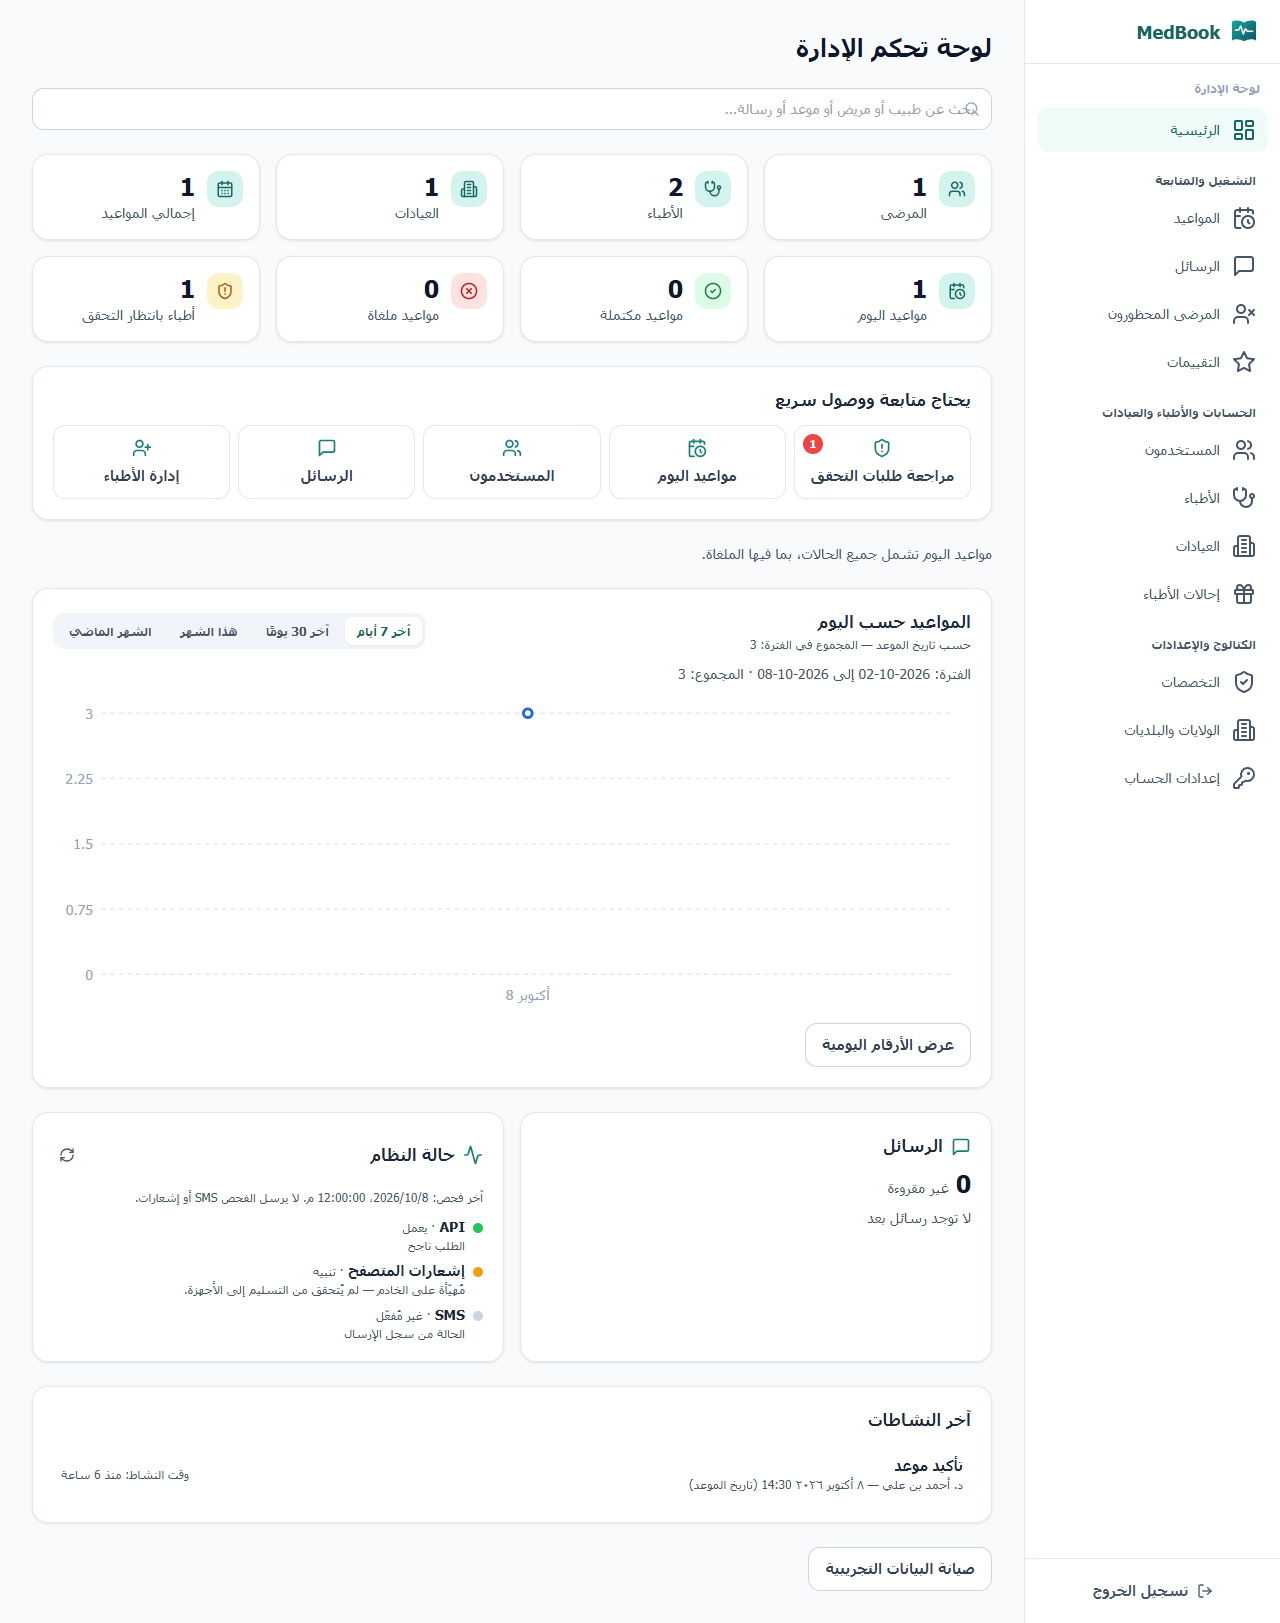
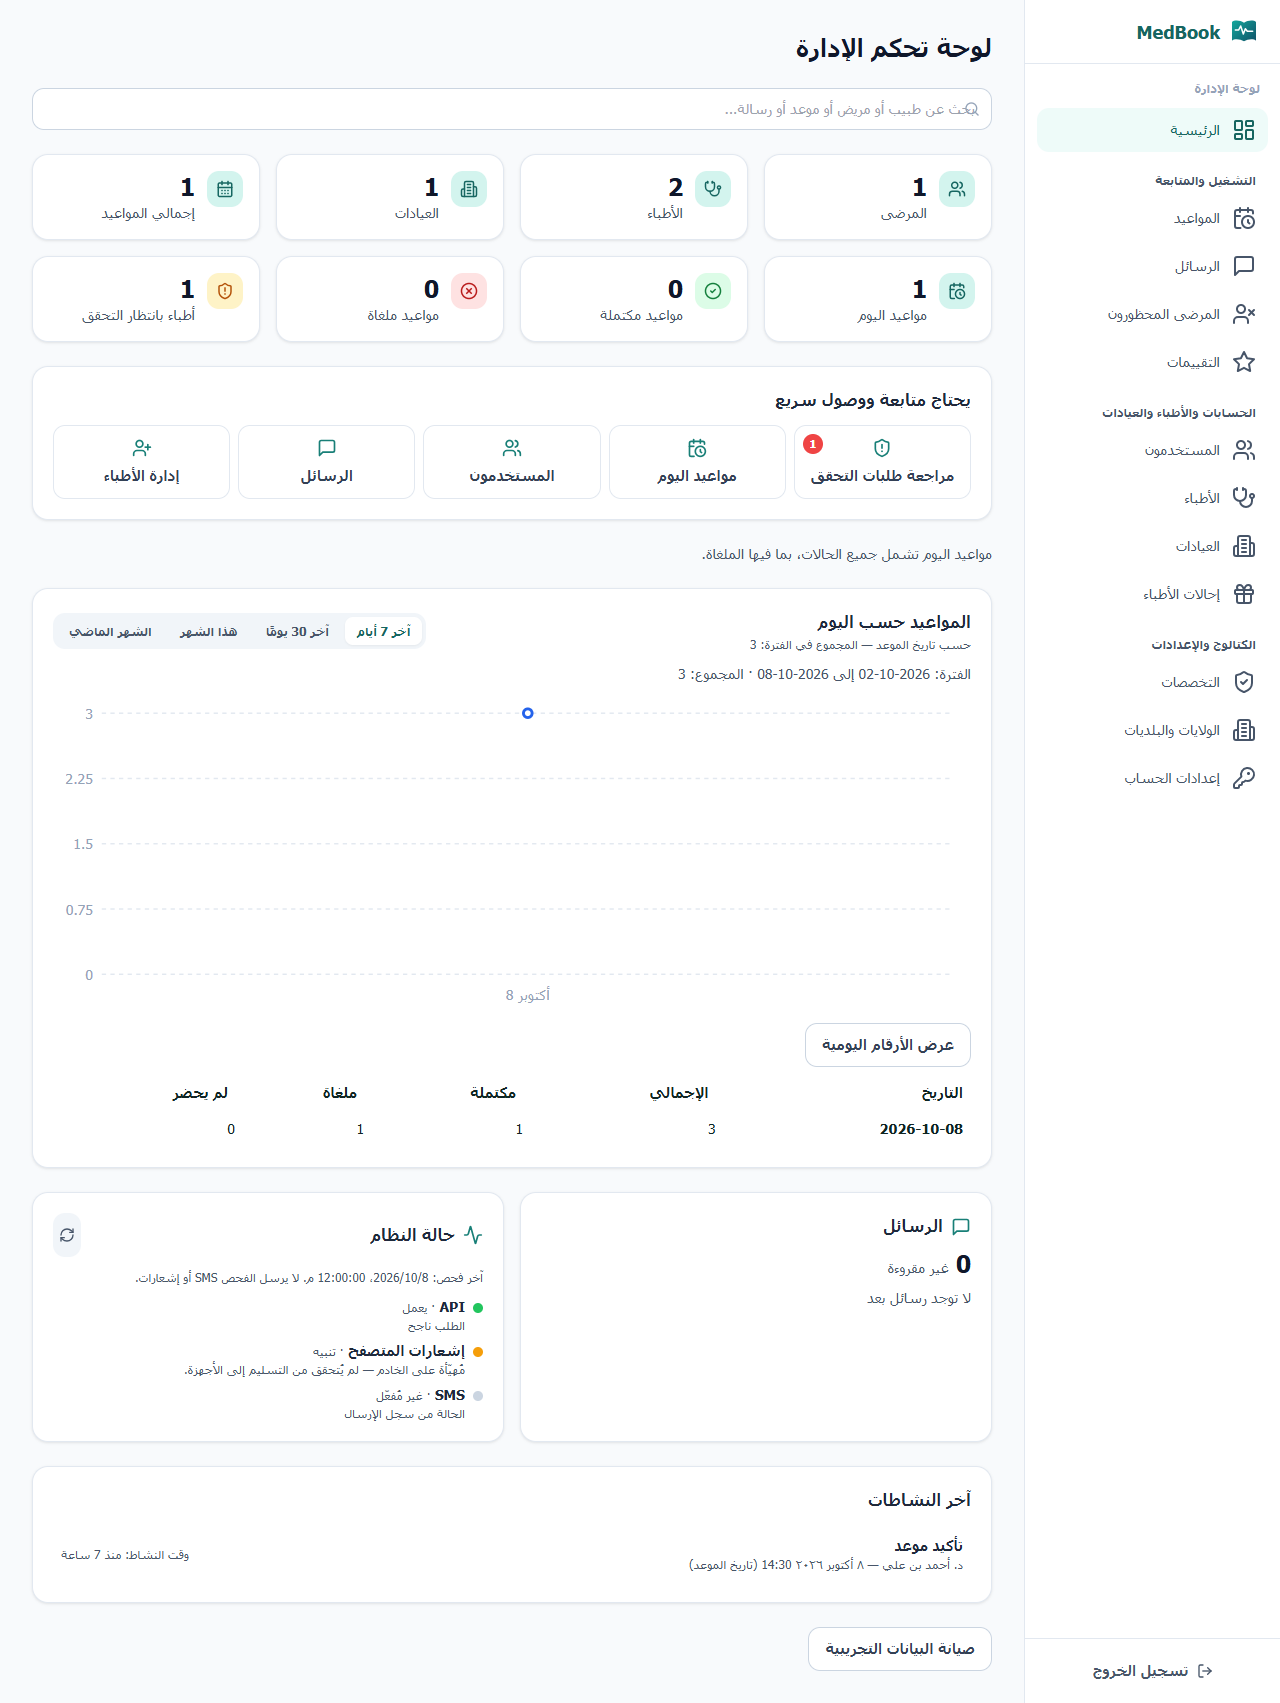
fix(admin): execute transaction locks and preserve combined filters

diff --git a/frontend-doctor/src/pages/admin/AdminReviews.tsx b/frontend-doctor/src/pages/admin/AdminReviews.tsx
@@ -1,3 +1,4 @@
+import { loadAdminDoctorOptions } from '../../components/admin/doctorOptions';
 import { useQuery,useQueryClient } from '@tanstack/react-query';
 import { api,apiErrorMessage } from '../../lib/api';
 import { AdminActions,AdminResults } from '../../components/admin/AdminUI';
@@ -15,7 +16,7 @@ export default function AdminReviews(){
  const qc=useQueryClient(),{showToast}=useToast(),confirmation=useAdminConfirm(),{params,q,setQ,search,page,setPage,update,clear}=useAdminListParams();
  const rating=params.get('rating')??'',doctorId=params.get('doctorId')??'',from=params.get('from')??'',to=params.get('to')??'';
  const query=useQuery({queryKey:['admin-reviews',search,rating,doctorId,from,to,page],queryFn:async({signal})=>(await api.get('/admin/reviews',{signal,params:{q:search||undefined,rating:rating||undefined,doctorId:doctorId||undefined,from:from||undefined,to:to||undefined,page}})).data.data as {items:Review[];total:number;page:number;totalPages:number}});
- const doctors=useQuery({queryKey:['admin-review-doctors',search],queryFn:async({signal})=>(await api.get('/admin/doctors',{signal,params:{q:search||undefined,pageSize:50}})).data.data});
+ const doctors=useQuery({queryKey:['admin-doctor-options'],queryFn:({signal})=>loadAdminDoctorOptions(signal)});
  function remove(r:Review){confirmation.ask({title:'حذف التقييم',record:`${r.patient.firstName} ${r.patient.lastName} — د. ${r.doctor.firstName} ${r.doctor.lastName}`,reasonRequired:true,impact:'الحذف نهائي ويعيد حساب متوسط الطبيب. لا يُحذف التقييم لمجرد أنه سلبي؛ أدخل سببًا وفق سياسة الإشراف.',action:async reason=>{await api.delete('/admin/reviews/'+r.id,{data:{reason}});showToast('تم حذف التقييم.','success');await qc.invalidateQueries({queryKey:['admin-reviews']});}});}
  const filtered=!!(q||rating||doctorId||from||to);
  return <div className="space-y-5"><h1 className="text-2xl font-extrabold">إدارة التقييمات</h1><div className="grid gap-3 sm:grid-cols-2 lg:grid-cols-5"><Input label="بحث باسم الطبيب أو التعليق" value={q} onChange={e=>setQ(e.target.value)}/><Select label="الطبيب" value={doctorId} onChange={e=>update('doctorId',e.target.value)}><option value="">كل الأطباء</option>{(doctors.data?.items??[]).map((d:any)=><option key={d.id} value={d.id}>د. {d.firstName} {d.lastName}</option>)}</Select><Select label="درجة التقييم" value={rating} onChange={e=>update('rating',e.target.value)}><option value="">كل الدرجات</option>{[1,2,3,4,5].map(n=><option key={n} value={n}>{n} من 5</option>)}</Select><Input label="من تاريخ" type="date" value={from} onChange={e=>update('from',e.target.value)}/><Input label="إلى تاريخ" type="date" min={from||undefined} value={to} onChange={e=>update('to',e.target.value)}/></div><AdminResults total={query.data?.total} filtered={filtered} onClear={clear}/>{query.isLoading?<Spinner/>:query.isError?<ErrorState message={apiErrorMessage(query.error)} onRetry={()=>void query.refetch()}/>:query.data?.items.length?<><div className="space-y-3">{query.data.items.map(r=><article key={r.id} className="card flex flex-wrap items-start justify-between gap-4 p-4"><div className="min-w-0 space-y-2"><h2 className="font-bold"><bdi>{r.patient.firstName} {r.patient.lastName} ← د. {r.doctor.firstName} {r.doctor.lastName}</bdi></h2><RatingStars value={r.rating}/>{r.comment&&<p className="break-words text-sm">{r.comment}</p>}<p className="text-xs text-slate-600">{new Date(r.createdAt).toLocaleString('ar-DZ')}</p>{r.appointmentId&&<Link className="text-sm text-primary-700 underline" to={'/admin/appointments?id='+r.appointmentId}>عرض الموعد المرتبط</Link>}</div><AdminActions label={'تقييم '+r.patient.firstName+' '+r.patient.lastName}><Button variant="danger" aria-label={'حذف تقييم '+r.patient.firstName+' '+r.patient.lastName} onClick={()=>remove(r)}>حذف التقييم</Button></AdminActions></article>)}</div><Pagination page={query.data.page} totalPages={query.data.totalPages} onChange={setPage}/></>:<EmptyState title={filtered?'لا نتائج مطابقة':'لا توجد تقييمات'}/>} {confirmation.dialog}</div>;

diff --git a/backend/src/modules/admin/admin.service.ts b/backend/src/modules/admin/admin.service.ts
@@ -219,7 +219,7 @@ export const wilayasAdmin = {
     remove: (id: string) => removeCatalog("wilaya", id),
     addCity: (wilayaId: string, nameAr: string) => saveCatalog("city", null, {wilayaId,nameAr}),
     addCitiesBulk: async (wilayaId: string, names: string[]) => prisma.$transaction(async tx => {
-          await tx.$queryRaw`SELECT pg_advisory_xact_lock(724002)`;
+          await tx.$executeRaw`SELECT pg_advisory_xact_lock(724002)`;
           const wilaya = await tx.wilaya.findUnique({ where: { id: wilayaId } });
           if (!wilaya) throw ApiError.notFound("الولاية غير موجودة.");
           const existing = await tx.city.findMany({ where: { wilayaId }, select: { nameAr: true } });
@@ -329,8 +329,8 @@ export async function listAppointmentsAdmin(params: { id?: string; filter?: Appo
   else if (params.filter === "cancelled") where.status = "CANCELLED";
 
   if(params.doctorId)where.doctorId=params.doctorId;
-  if(params.status)where.status=params.status;
-  if(params.from||params.to)where.AND=[{date:{...(params.from?{gte:new Date(params.from+"T00:00:00Z")}:{}),...(params.to?{lte:new Date(params.to+"T23:59:59.999Z")}: {})}}];
+  if(params.status)where.AND=[{status:params.status}];
+  if(params.from||params.to)where.AND=[...(Array.isArray(where.AND)?where.AND:[]),{date:{...(params.from?{gte:new Date(params.from+"T00:00:00Z")}:{}),...(params.to?{lte:new Date(params.to+"T23:59:59.999Z")}: {})}}];
   const q = params.q?.trim();
   if (q) {
     where.OR = [

diff --git a/backend/src/modules/admin/adminSafety.service.ts b/backend/src/modules/admin/adminSafety.service.ts
@@ -7,7 +7,7 @@ import { ApiError } from "../../utils/ApiError";
 export async function changeUserAccess(userId: string, active: boolean | null, actor?: string, reason?:string) {
   try {
     return await prisma.$transaction(async tx => {
-      await tx.$queryRaw`SELECT pg_advisory_xact_lock(724001)`;
+      await tx.$executeRaw`SELECT pg_advisory_xact_lock(724001)`;
       const user = await tx.user.findUnique({ where: { id: userId } });
       if (!user) throw ApiError.notFound("المستخدم غير موجود.");
       if (active !== true && userId === actor) throw ApiError.badRequest("لا يمكنك حذف حسابك الحالي أو تعطيله.");
@@ -36,7 +36,7 @@ type CatalogKind='specialty'|'wilaya'|'city';
 const delegate=(tx:Prisma.TransactionClient,kind:CatalogKind):any=>tx[kind];
 export async function saveCatalog(kind:CatalogKind,id:string|null,input:Record<string,unknown>){
  return prisma.$transaction(async tx=>{
-  await tx.$queryRaw`SELECT pg_advisory_xact_lock(724002)`;
+  await tx.$executeRaw`SELECT pg_advisory_xact_lock(724002)`;
   const data={...input};
   if(typeof data.nameAr==='string')data.nameAr=normalizeCatalogName(data.nameAr);
   if(typeof data.nameFr==='string')data.nameFr=normalizeCatalogName(data.nameFr);

diff --git a/backend/tests/adminDeepLinks.routes.test.ts b/backend/tests/adminDeepLinks.routes.test.ts
@@ -26,6 +26,12 @@ describe('admin deep links on protected HTTP routes',()=>{
    expect((await request(app).get('/api/admin/'+kind).query({id:ID}).set('Authorization',auth('PATIENT'))).status).toBe(403);
   });
  }
+
+ it('appointment tabs and explicit date/status filters intersect rather than override',async()=>{
+  const res=await request(app).get('/api/admin/appointments').query({filter:'completed',status:'CONFIRMED',from:'2026-10-01',to:'2026-10-08'}).set('Authorization',auth('ADMIN'));
+  expect(res.status).toBe(200);const where=db.appointment.findMany.mock.calls[0][0].where;
+  expect(where.status).toBe('COMPLETED');expect(where.AND).toEqual(expect.arrayContaining([{status:'CONFIRMED'},expect.objectContaining({date:expect.objectContaining({gte:new Date('2026-10-01T00:00:00Z')})})]));
+ });
  it('appointments retain family beneficiary in the response selection',async()=>{
   await request(app).get('/api/admin/appointments').query({id:ID}).set('Authorization',auth('ADMIN'));
   expect(db.appointment.findMany.mock.calls[0][0].select).toMatchObject({familyMemberId:true,familyMember:{select:{firstName:true,lastName:true}}});

diff --git a/frontend-doctor/src/pages/admin/AdminAppointments.tsx b/frontend-doctor/src/pages/admin/AdminAppointments.tsx
@@ -1,3 +1,4 @@
+import { loadAdminDoctorOptions } from '../../components/admin/doctorOptions';
 import { useAdminListParams } from "../../hooks/useAdminListParams";
 import { AdminResults } from "../../components/admin/AdminUI";
 import { useQuery } from "@tanstack/react-query";
@@ -30,7 +31,7 @@ export default function AdminAppointments() {
   const id = params.get("id");
   const filter = FILTERS.find((f) => f.key === params.get("filter"))?.key ?? "all";
   const from=params.get("from")??"",to=params.get("to")??"",doctorId=params.get("doctorId")??"",status=params.get("status")??"";
-  const doctors=useQuery({queryKey:["admin-appointment-doctors",search],queryFn:async({signal})=>(await api.get("/admin/doctors",{signal,params:{q:search||undefined,pageSize:50}})).data.data});
+  const doctors=useQuery({queryKey:["admin-doctor-options"],queryFn:({signal})=>loadAdminDoctorOptions(signal)});
   const filtered = !!(q || id || filter !== "all" || from || to || doctorId || status);
   const query = useQuery({
     queryKey: ["admin-appointments", filter, search, page, id, from,to,doctorId,status],

diff --git a/backend/src/modules/admin/adminMaintenance.service.ts b/backend/src/modules/admin/adminMaintenance.service.ts
@@ -17,7 +17,7 @@ export const previewDemoData=()=>preview(prisma);
 export async function purgeReviewedDemoData(expected:{id:string;version:string}[],actor:string,reason?:string){
  if(!expected.length)throw ApiError.badRequest('اختر سجلات من المعاينة أولًا.');
  try{return await prisma.$transaction(async tx=>{
-  await tx.$queryRaw`SELECT pg_advisory_xact_lock(724003)`;
+  await tx.$executeRaw`SELECT pg_advisory_xact_lock(724003)`;
   const ids=expected.map(r=>r.id);await tx.$queryRaw(Prisma.sql`SELECT id FROM users WHERE id IN (${Prisma.join(ids)}) FOR UPDATE`);
   const snapshot=await preview(tx);
   for(const target of expected){const actual=snapshot.records.find(r=>r.id===target.id);if(!actual||!actual.eligible||actual.version!==target.version||target.id===actor)throw ApiError.conflict('تغيرت السجلات أو لم تعد مؤهلة. أعد المعاينة.');}

diff --git a/backend/src/modules/clinics/clinics.service.ts b/backend/src/modules/clinics/clinics.service.ts
@@ -348,7 +348,7 @@ export function clinicAdminRevision(c:{verificationStatus:string;subscriptionSta
 export async function adminUpdateClinic(id: string, data: {
   verificationStatus?: VerificationStatus; subscriptionStatus?: SubscriptionStatus; subscriptionExpiresAt?: Date | null; paidDoctorCount?: number; expectedSnapshot?:string;
 }) {
-  if (!Object.keys(data).length) throw ApiError.badRequest("لا يوجد تغيير.");
+  if (!Object.keys(data).some(key=>key!=='expectedSnapshot')) throw ApiError.badRequest("لا يوجد تغيير.");
   const result = await prisma.$transaction(async tx => {
     await lockClinic(tx, id);
     const clinic = await tx.clinic.findUnique({ where: { id }, include: { owner: { select: { isActive: true } } } });

diff --git a/frontend-doctor/src/components/admin/doctorOptions.ts b/frontend-doctor/src/components/admin/doctorOptions.ts
@@ -1,0 +1,13 @@
+import { api } from '../../lib/api';
+type DoctorOption={id:string;firstName:string;lastName:string};
+// Fetch every paginated name; searching appointments/comments must not erase
+// a selected doctor or silently limit the filter to the first fifty doctors.
+export async function loadAdminDoctorOptions(signal:AbortSignal){
+ const items:DoctorOption[]=[];
+ for(let page=1;page<=1000;page++){
+  const data=(await api.get('/admin/doctors',{signal,params:{page,pageSize:50}})).data.data;
+  items.push(...data.items.map((d:DoctorOption)=>({id:d.id,firstName:d.firstName,lastName:d.lastName})));
+  if(page>=data.totalPages||!data.items.length)break;
+ }
+ return {items};
+}
